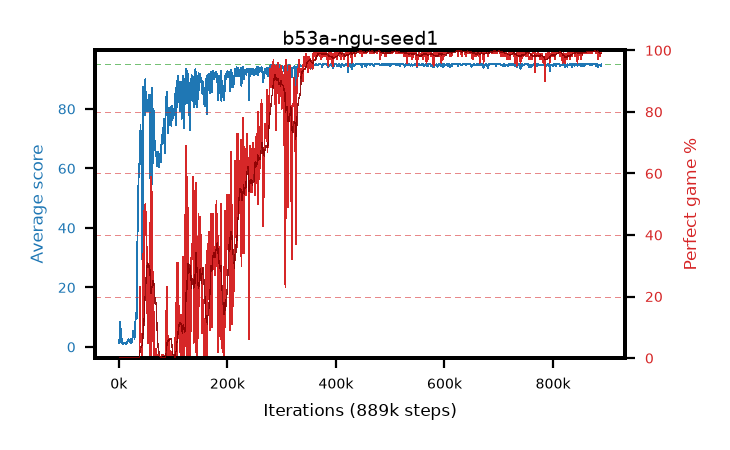
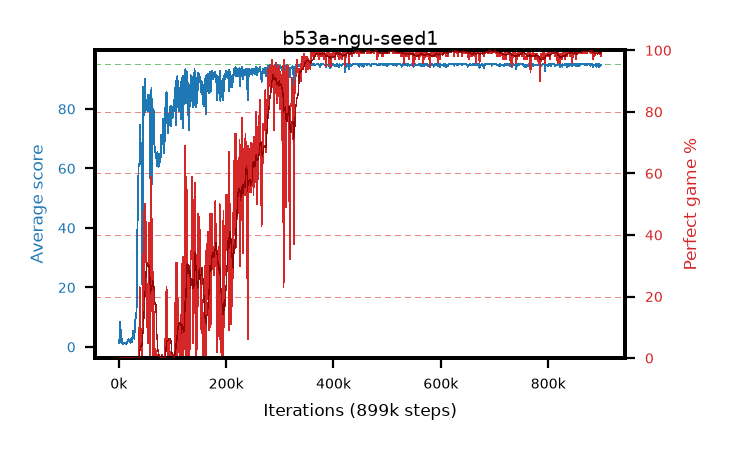
live pictures of 4 arm(s)

diff --git a/results/b53a-ngu-seed1/b53a-ngu-seed1.md b/results/b53a-ngu-seed1/b53a-ngu-seed1.md
@@ -1,6 +1,6 @@
 # b53a-ngu-seed1
 
-step **889,000** · 889 evals · trailing **94.9** · peak **94.96** @643,000 · sef **68.4** · best30 **99.7** @643,000
+step **899,000** · 899 evals · trailing **94.81** · peak **94.96** @643,000 · sef **68.7** · best30 **99.7** @643,000
 
 ## Config
 
@@ -80,15 +80,15 @@ step **889,000** · 889 evals · trailing **94.9** · peak **94.96** @643,000 ·
 | 2000 | 8.43 | 4.84 | 0.0 | 21.0 | 7.201 | 0.0 | 0.4 |
 | 3000 | 8.52 | 6.07 | 0.0 | 26.0 | 5.525 | 0.0 | 0.4 |
 | ... | ... | ... | ... | ... | ... | ... | ... |
-| 878000 | 95.0 | 94.88 | 95.0 | 95.0 | 193.707 | 100.0 | 0.4 |
-| 879000 | 94.53 | 94.87 | 48.0 | 95.0 | 192.239 | 99.0 | 0.4 |
-| 880000 | 95.0 | 94.87 | 95.0 | 95.0 | 193.692 | 100.0 | 0.4 |
-| 881000 | 94.96 | 94.89 | 91.0 | 95.0 | 192.665 | 99.0 | 0.4 |
-| 882000 | 95.0 | 94.9 | 95.0 | 95.0 | 193.684 | 100.0 | 0.4 |
-| 883000 | 94.16 | 94.87 | 27.0 | 95.0 | 189.773 | 97.0 | 0.4 |
-| 884000 | 94.91 | 94.89 | 86.0 | 95.0 | 192.582 | 99.0 | 0.4 |
-| 885000 | 94.95 | 94.89 | 90.0 | 95.0 | 192.65 | 99.0 | 0.4 |
-| 886000 | 94.9 | 94.89 | 89.0 | 95.0 | 191.505 | 98.0 | 0.4 |
-| 887000 | 94.97 | 94.9 | 92.0 | 95.0 | 192.682 | 99.0 | 0.4 |
 | 888000 | 94.47 | 94.9 | 42.0 | 95.0 | 192.133 | 99.0 | 0.4 |
 | 889000 | 95.0 | 94.9 | 95.0 | 95.0 | 193.712 | 100.0 | 0.4 |
+| 890000 | 94.22 | 94.87 | 17.0 | 95.0 | 191.841 | 99.0 | 0.4 |
+| 891000 | 94.59 | 94.86 | 54.0 | 95.0 | 192.252 | 99.0 | 0.4 |
+| 892000 | 94.95 | 94.86 | 90.0 | 95.0 | 192.605 | 99.0 | 0.4 |
+| 893000 | 95.0 | 94.86 | 95.0 | 95.0 | 193.697 | 100.0 | 0.4 |
+| 894000 | 94.98 | 94.86 | 93.0 | 95.0 | 192.665 | 99.0 | 0.4 |
+| 895000 | 94.15 | 94.83 | 10.0 | 95.0 | 191.805 | 99.0 | 0.4 |
+| 896000 | 95.0 | 94.83 | 95.0 | 95.0 | 193.7 | 100.0 | 0.4 |
+| 897000 | 94.49 | 94.81 | 44.0 | 95.0 | 192.147 | 99.0 | 0.4 |
+| 898000 | 94.72 | 94.82 | 74.0 | 95.0 | 191.423 | 98.0 | 0.4 |
+| 899000 | 94.87 | 94.81 | 82.0 | 95.0 | 192.577 | 99.0 | 0.4 |
